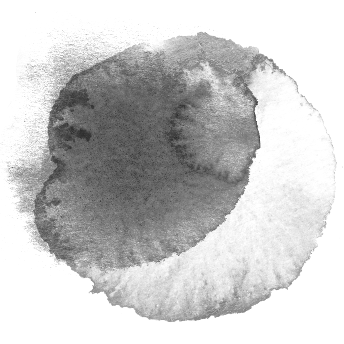
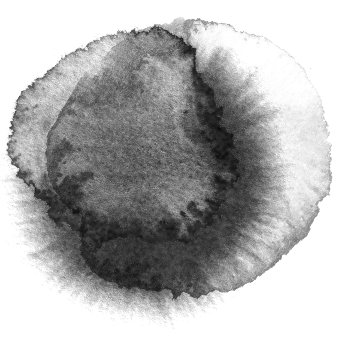
Reducing size of drawing and droplets

diff --git a/src/components/Intro.svelte b/src/components/Intro.svelte
@@ -50,6 +50,11 @@
             <!-- {#if browser} -->
                 <picture>
                     <source 
+                        media="(max-width: 500px)" 
+                        srcset="{base}/images/drawing-mobile-sm.webp"
+                        width="500" 
+                        height="500">
+                    <source 
                         media="(max-width: 1000px)" 
                         srcset="{base}/images/drawing-mobile.webp"
                         width="500" 

diff --git a/src/components/WritingRow.svelte b/src/components/WritingRow.svelte
@@ -11,7 +11,7 @@
         <div class="connector"></div>
         <div class="droplet">
             <span style={`filter: ${writing?.filter};`}>
-                <img loading="lazy" src={base + writing?.image} alt="watercolor droplet">
+                <img loading="lazy" src={base + writing?.image.replace(".webp", "_sm.webp")} alt="watercolor droplet">
             </span>
         </div>
         <div class="date">{@html getTwoDigitMonthYearDate(writing.date)}</div>
